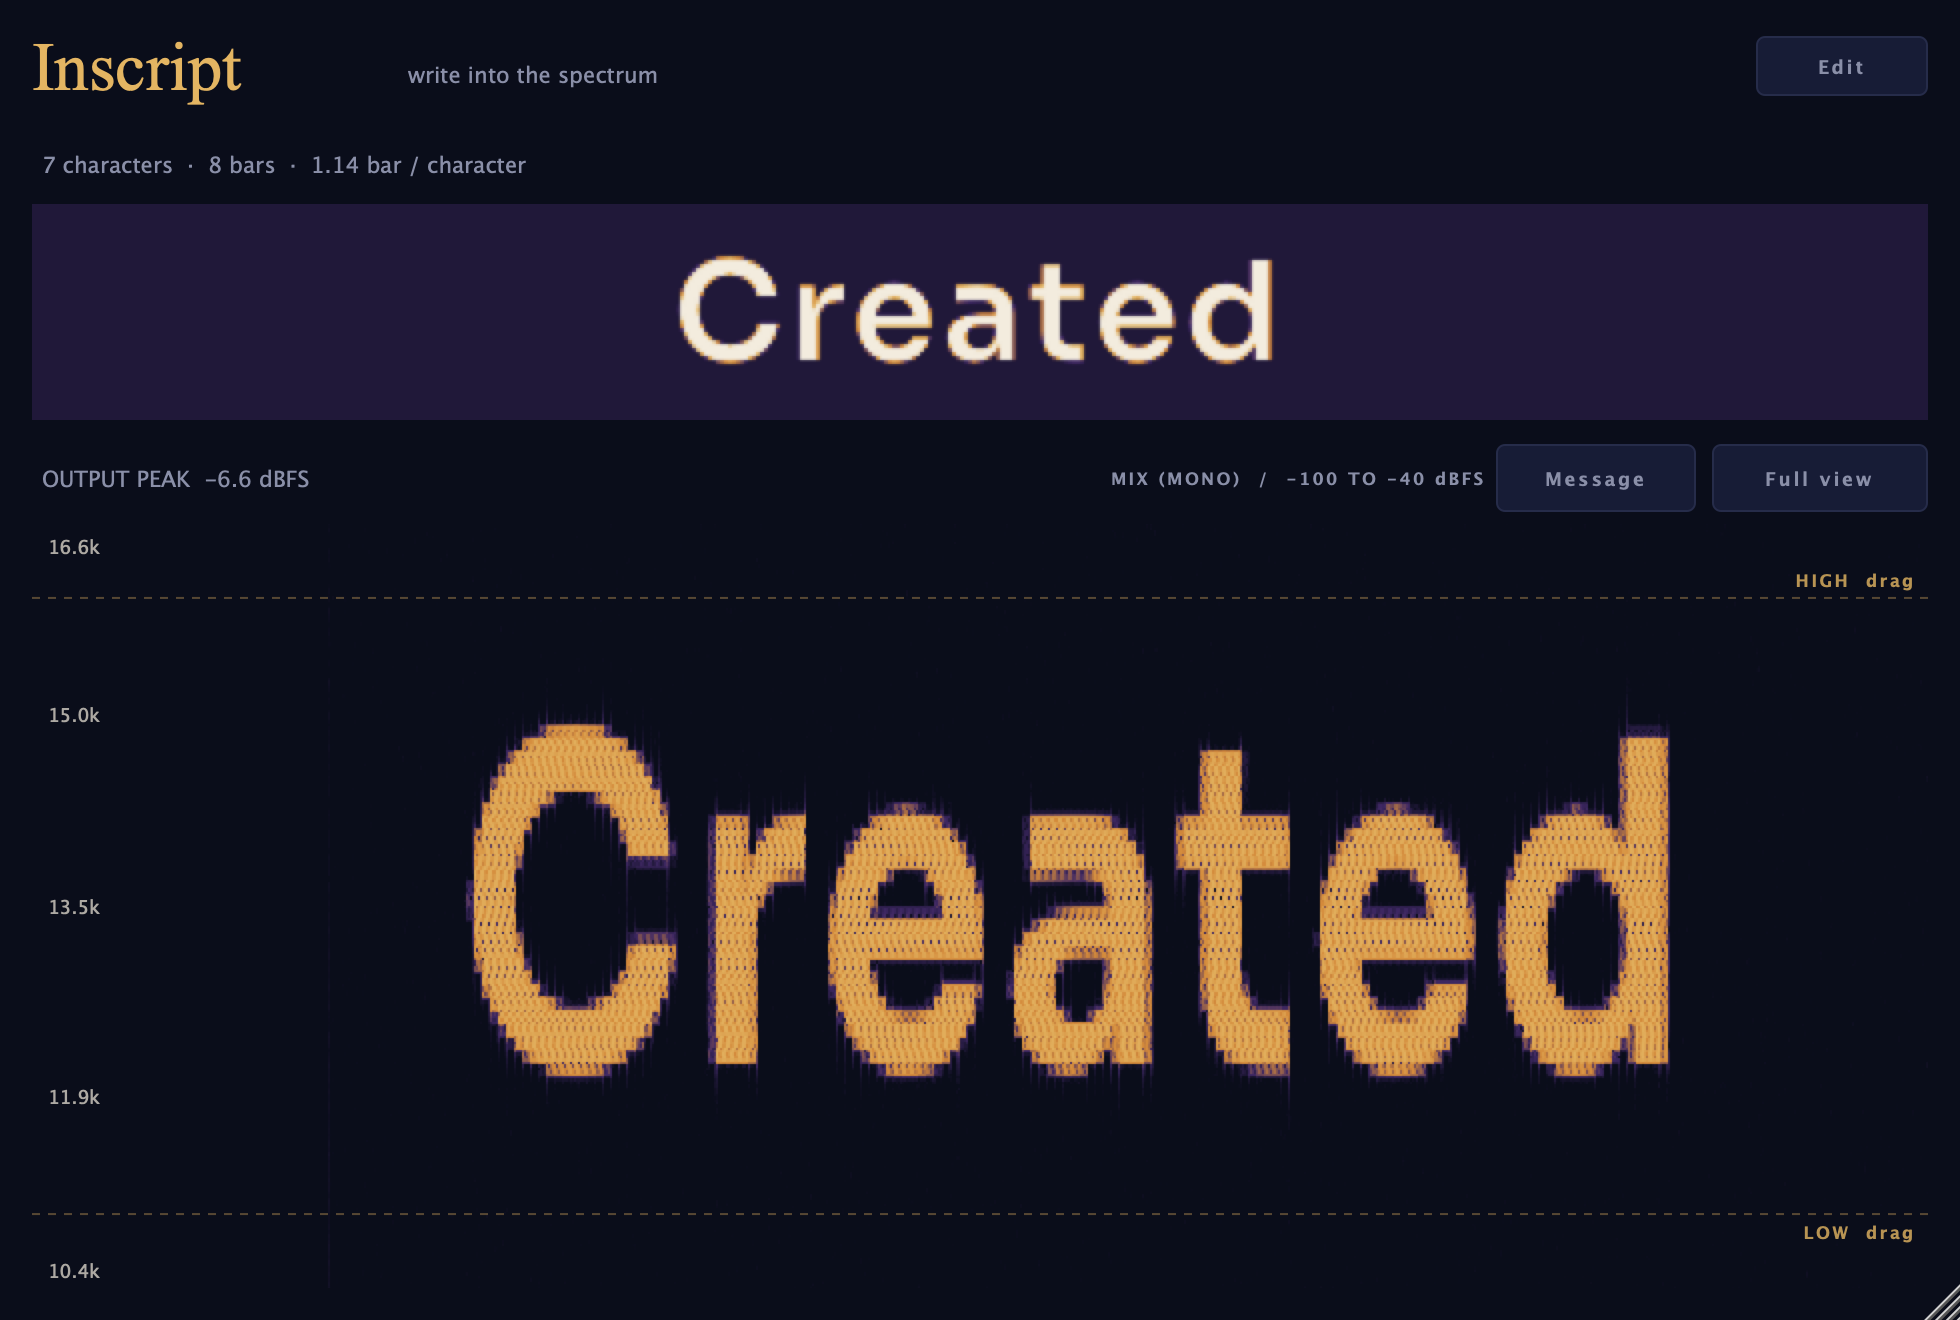
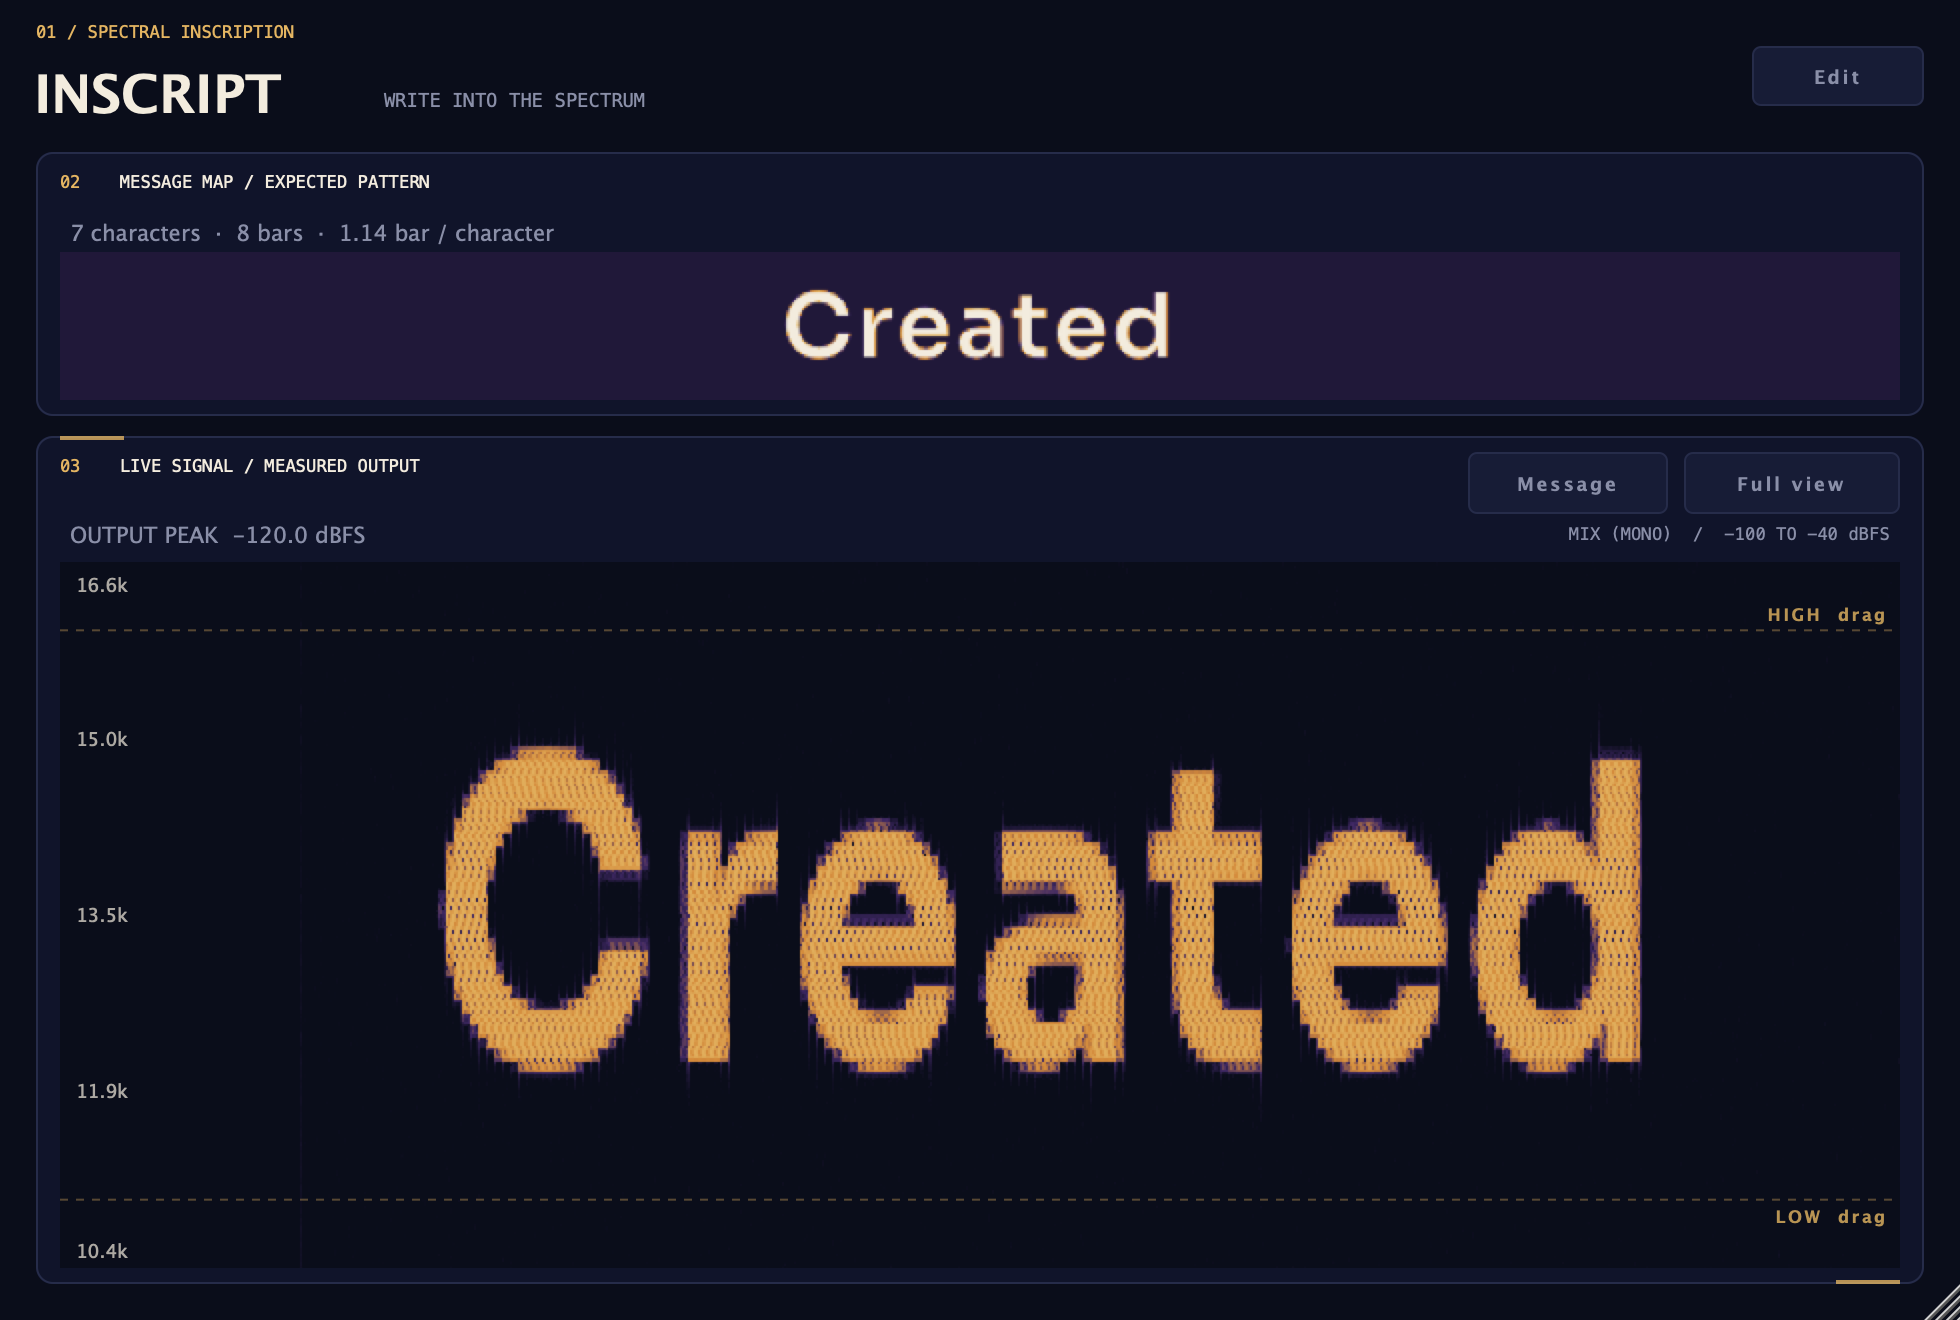
Refine Inscript instrument layout and compact spectrum

diff --git a/Source/PluginEditor.cpp b/Source/PluginEditor.cpp
@@ -2,9 +2,25 @@
 
 namespace
 {
-    constexpr int margin = 16;
-    constexpr int headerHeight = 66;
-    constexpr int controlsHeight = 138;
+    constexpr int margin = 18;
+    constexpr int headerHeight = 76;
+    constexpr int controlsHeight = 144;
+
+    void drawPanel (juce::Graphics& g, juce::Rectangle<int> bounds, bool active)
+    {
+        if (bounds.isEmpty()) return;
+        auto r = bounds.toFloat();
+        g.setColour (Theme::panel);
+        g.fillRoundedRectangle (r, 8.0f);
+        g.setColour (Theme::outline);
+        g.drawRoundedRectangle (r.reduced (0.5f), 8.0f, 1.0f);
+        if (active)
+        {
+            g.setColour (Theme::honey.withAlpha (0.78f));
+            g.fillRect (r.getX() + 12.0f, r.getY(), 32.0f, 2.0f);
+            g.fillRect (r.getRight() - 44.0f, r.getBottom() - 2.0f, 32.0f, 2.0f);
+        }
+    }
 
     struct BandPreset
     {
@@ -137,7 +153,7 @@ ZeroOneEditor::ZeroOneEditor (ZeroOneProcessor& p)
 {
     setLookAndFeel (&lookAndFeel);
 
-    messageBox.setFont (Theme::font (17.0f));
+    messageBox.setFont (Theme::font (17.0f, true));
     messageBox.setJustification (juce::Justification::centredLeft);
     messageBox.setIndents (10, 0);
     messageBox.setTextToShowWhenEmpty ("Your message", Theme::faint);
@@ -234,7 +250,7 @@ ZeroOneEditor::ZeroOneEditor (ZeroOneProcessor& p)
         label->setColour (juce::Label::textColourId, Theme::dim);
         addAndMakeVisible (label);
     }
-    scaleInfo.setFont (Theme::caps (10.0f));
+    scaleInfo.setFont (Theme::mono (10.0f));
     scaleInfo.setJustificationType (juce::Justification::centredRight);
     scaleInfo.setText ("MIX (MONO)  /  -100 TO -40 dBFS", juce::dontSendNotification);
 
@@ -385,33 +401,54 @@ void ZeroOneEditor::paint (juce::Graphics& g)
 {
     g.fillAll (Theme::background);
 
-    auto header = getLocalBounds().reduced (margin, 0).removeFromTop (headerHeight);
+    // Typography and restrained instrument markings frame the actual output, rather than a mock signal.
+    g.setFont (Theme::mono (10.0f));
     g.setColour (Theme::honey);
-    g.setFont (Theme::serif (38.0f));
-    g.drawText ("Inscript", header.removeFromLeft (188), juce::Justification::centredLeft);
+    g.drawText ("01 / SPECTRAL INSCRIPTION", margin, 9, 260, 14, juce::Justification::centredLeft);
+    g.setColour (Theme::text);
+    g.setFont (Theme::font (31.0f, true));
+    g.drawText ("INSCRIPT", margin - 1, 25, 200, 43, juce::Justification::centredLeft);
+    if (getWidth() >= 900)
+    {
+        g.setColour (Theme::dim);
+        g.setFont (Theme::mono (11.0f));
+        g.drawText ("WRITE INTO THE SPECTRUM", margin + 174, 42, 220, 16, juce::Justification::centredLeft);
+    }
 
+    if (! captureMode) drawPanel (g, messageArea, false);
+    drawPanel (g, previewArea, false);
+    drawPanel (g, spectrumArea, true);
+    if (! captureMode) drawPanel (g, controlsArea, false);
+
+    const auto section = [&] (juce::Rectangle<int> area, const juce::String& title, const juce::String& index)
+    {
+        if (area.isEmpty()) return;
+        g.setColour (Theme::honey);
+        g.setFont (Theme::mono (10.0f));
+        g.drawText (index, area.getX() + 12, area.getY() + 7, 30, 16, juce::Justification::centredLeft);
+        g.setColour (Theme::text);
+        g.drawText (title, area.getX() + 42, area.getY() + 7,
+                    area.getWidth() - 54, 16, juce::Justification::centredLeft);
+    };
+    if (! captureMode) section (messageArea, "SOURCE / TEXT OR IMAGE", "01");
+    section (previewArea, "MESSAGE MAP / EXPECTED PATTERN", "02");
+    section (spectrumArea, "LIVE SIGNAL / MEASURED OUTPUT", "03");
+    if (! captureMode) section (controlsArea, "TRANSMISSION CONTROL", "04");
+
+    g.setFont (Theme::mono (10.0f));
     g.setColour (Theme::dim);
-    g.setFont (Theme::font (13.0f));
-    g.drawText ("write into the spectrum", header.removeFromLeft (220).withTrimmedTop (8),
-                juce::Justification::centredLeft);
-
-    g.setFont (Theme::caps (11.0f));
-    g.setColour (Theme::dim);
-
-    for (const auto& [area, text] : captions)
-        g.drawText (text, area, juce::Justification::centredLeft);
-
-    g.setColour (Theme::outline);
-    if (! captureMode)
-        g.drawHorizontalLine (controlsArea.getY() - 8, (float) margin, (float) (getWidth() - margin));
+    for (const auto& [area, caption] : captions)
+        g.drawText (caption, area, juce::Justification::centredLeft);
 }
 
 void ZeroOneEditor::resized()
 {
     captions.clear();
+    messageArea = previewArea = spectrumArea = controlsArea = {};
+    const auto compact = getHeight() < 620;
     auto bounds = getLocalBounds().reduced (margin, 0);
 
-    auto header = bounds.removeFromTop (headerHeight);
+    auto header = bounds.removeFromTop (compact ? 68 : headerHeight);
     captureButton.setBounds (header.removeFromRight (86).withSizeKeepingCentre (86, 30));
     header.removeFromRight (8);
     bypassButton.setBounds (header.removeFromRight (80).withSizeKeepingCentre (80, 30));
@@ -420,46 +457,60 @@ void ZeroOneEditor::resized()
 
     if (captureMode)
     {
-        bounds.removeFromTop (4);
-        timingInfo.setBounds (bounds.removeFromTop (24));
-        bounds.removeFromTop (8);
-        preview.setBounds (bounds.removeFromTop (108));
-        bounds.removeFromTop (12);
-        auto toolbar = bounds.removeFromTop (34);
+        previewArea = bounds.removeFromTop (132);
+        auto map = previewArea.reduced (12, 8);
+        map.removeFromTop (22);
+        timingInfo.setBounds (map.removeFromTop (20));
+        preview.setBounds (map);
+        bounds.removeFromTop (10);
+        spectrumArea = bounds.withTrimmedBottom (margin);
+        auto signal = spectrumArea.reduced (12, 8);
+        auto toolbar = signal.removeFromTop (31);
+        toolbar.removeFromLeft (228);
         zoomButton.setBounds (toolbar.removeFromRight (108));
         toolbar.removeFromRight (8);
         viewButton.setBounds (toolbar.removeFromRight (100));
-        peakInfo.setBounds (toolbar.removeFromLeft (220));
-        scaleInfo.setBounds (toolbar);
-        bounds.removeFromTop (6);
-        spectrogram.setBounds (bounds.withTrimmedBottom (margin));
+        auto metrics = signal.removeFromTop (20);
+        peakInfo.setBounds (metrics.removeFromLeft (220));
+        scaleInfo.setBounds (metrics);
+        signal.removeFromTop (4);
+        spectrogram.setBounds (signal);
         return;
     }
 
-    auto messageRow = bounds.removeFromTop (38);
+    messageArea = bounds.removeFromTop (compact ? 70 : 78);
+    auto messageRow = messageArea.reduced (12, compact ? 6 : 8);
+    messageRow.removeFromTop (compact ? 21 : 25);
     imageButton.setBounds (messageRow.removeFromRight (96));
     messageRow.removeFromRight (8);
     messageBox.setBounds (messageRow);
     sourceLabel.setBounds (messageRow.reduced (10, 0).removeFromRight (260));
 
-    bounds.removeFromTop (8);
-    timingInfo.setBounds (bounds.removeFromTop (24));
-    preview.setBounds (bounds.removeFromTop (70));
-    bounds.removeFromTop (10);
+    bounds.removeFromTop (compact ? 6 : 10);
+    previewArea = bounds.removeFromTop (compact ? 80 : 108);
+    auto map = previewArea.reduced (12, compact ? 5 : 8);
+    map.removeFromTop (compact ? 20 : 22);
+    timingInfo.setBounds (map.removeFromTop (compact ? 14 : 18));
+    preview.setBounds (map);
+    bounds.removeFromTop (compact ? 6 : 10);
 
-    auto toolbar = bounds.removeFromTop (34);
+    controlsArea = bounds.removeFromBottom (compact ? 126 : controlsHeight).withTrimmedBottom (compact ? 8 : margin);
+    bounds.removeFromBottom (compact ? 6 : 10);
+    spectrumArea = bounds;
+    auto signal = spectrumArea.reduced (12, 8);
+    auto toolbar = signal.removeFromTop (30);
+    toolbar.removeFromLeft (228);
     zoomButton.setBounds (toolbar.removeFromRight (108));
     toolbar.removeFromRight (8);
     viewButton.setBounds (toolbar.removeFromRight (100));
-    peakInfo.setBounds (toolbar.removeFromLeft (220));
-    scaleInfo.setBounds (toolbar);
-    bounds.removeFromTop (6);
+    auto metrics = signal.removeFromTop (20);
+    peakInfo.setBounds (metrics.removeFromLeft (220));
+    scaleInfo.setBounds (metrics);
+    signal.removeFromTop (4);
+    spectrogram.setBounds (signal);
 
-    controlsArea = bounds.removeFromBottom (controlsHeight).withTrimmedBottom (12);
-    bounds.removeFromBottom (12);
-    spectrogram.setBounds (bounds);
-
-    auto controls = controlsArea;
+    auto controls = controlsArea.reduced (12, 8);
+    controls.removeFromTop (24);
     const auto addCaption = [this] (juce::Rectangle<int>& column, const juce::String& text)
     {
         captions.push_back ({ column.removeFromTop (16), text });

diff --git a/Source/Spectrogram.cpp b/Source/Spectrogram.cpp
@@ -236,9 +236,10 @@ void Spectrogram::paint (juce::Graphics& g)
     g.setFont (Theme::font (11.0f));
     g.setColour (Theme::dim);
 
-    for (int tick = 0; tick <= 4; ++tick)
+    const auto tickCount = getHeight() < 180 ? 2 : 4;
+    for (int tick = 0; tick <= tickCount; ++tick)
     {
-        const auto hz = lowHz + span * (float) tick / 4.0f;
+        const auto hz = lowHz + span * (float) tick / (float) tickCount;
         const auto y = yFor (hz);
         const auto label = hz >= 1000.0f ? juce::String (hz / 1000.0f, 1) + "k" : juce::String (juce::roundToInt (hz));
         g.setColour (Theme::text.withAlpha (0.7f));

diff --git a/Source/LookAndFeel.h b/Source/LookAndFeel.h
@@ -31,6 +31,12 @@ namespace Theme
         return font (height, true).withExtraKerningFactor (0.12f);
     }
 
+    inline juce::Font mono (float height)
+    {
+        return juce::Font (juce::FontOptions (juce::Font::getDefaultMonospacedFontName(), height,
+                                             juce::Font::plain));
+    }
+
     inline juce::Font serif (float height)
     {
         return juce::Font (juce::FontOptions (juce::Font::getDefaultSerifFontName(), height, juce::Font::plain));

diff --git a/Source/PluginEditor.h b/Source/PluginEditor.h
@@ -76,7 +76,7 @@ private:
     std::unique_ptr<ComboBoxAttachment> gapAttachment;
     std::unique_ptr<ButtonAttachment> repeatAttachment, soloAttachment, bypassAttachment;
 
-    juce::Rectangle<int> controlsArea;
+    juce::Rectangle<int> messageArea, previewArea, spectrumArea, controlsArea;
     std::vector<std::pair<juce::Rectangle<int>, juce::String>> captions;
     std::shared_ptr<const Message> shownMessage;
     bool captureMode = false;

diff --git a/README.md b/README.md
@@ -10,6 +10,8 @@ AU · VST3 · Standalone — macOS (Windows VST3 builds in CI) — by [Rhizr](ht
 
 [Capture layout](docs/capture.png)
 
+[Compact layout](docs/compact.png)
+
 ## Features
 
 - **Text or image**: type up to 64 characters, or drop a PNG/JPG on the window; bright parts sound, dark parts stay quiet
@@ -22,6 +24,8 @@ AU · VST3 · Standalone — macOS (Windows VST3 builds in CI) — by [Rhizr](ht
 - **Live spectrogram** zoomed to the message band by default, with full-range and mix/message views. The message
   view shows only the added tones; the mix view shows a mono fold of the processed output. Drag the band edges on the display or
   type precise frequencies into the Low and High fields
+- **Measured display**: the large spectrum is computed from the plugin's actual audio output; the smaller message map is
+  the expected letter pattern. Compact windows keep the spectrum readable, and Capture mode gives it more room
 - **Timing preview** shows the message, playhead, length and space per character; Capture mode enlarges the visual
   for recording a reel
 - **Sora SemiBold lettering** is built into the plugin, so messages render consistently across hosts and systems.
